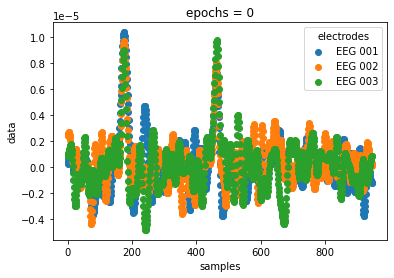
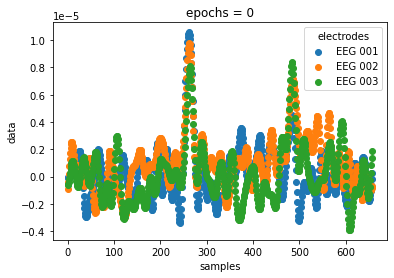
updating Demo in README

diff --git a/README.md b/README.md
@@ -165,14 +165,14 @@ eeg_dat.sel(epochs=0,electrodes=['EEG 001','EEG 002','EEG 003']).plot.scatter(x=
 ```
 
     <xarray.Dataset>
-    Dimensions:     (participant: 1, epochs: 30, electrodes: 59, samples: 1070)
+    Dimensions:     (participant: 1, epochs: 30, electrodes: 59, samples: 1154)
     Coordinates:
       * epochs      (epochs) int64 0 1 2 3 4 5 6 7 8 ... 21 22 23 24 25 26 27 28 29
       * electrodes  (electrodes) <U7 'EEG 001' 'EEG 002' ... 'EEG 059' 'EEG 060'
-      * samples     (samples) int64 0 1 2 3 4 5 6 ... 1064 1065 1066 1067 1068 1069
+      * samples     (samples) int64 0 1 2 3 4 5 6 ... 1148 1149 1150 1151 1152 1153
     Dimensions without coordinates: participant
     Data variables:
-        data        (participant, epochs, electrodes, samples) float64 2.037e-07 ...
+        data        (participant, epochs, electrodes, samples) float64 -2.113e-08...
         event       (participant, epochs) <U8 'stimulus' 'stimulus' ... 'stimulus'
     Attributes:
         sfreq:    600.614990234375
